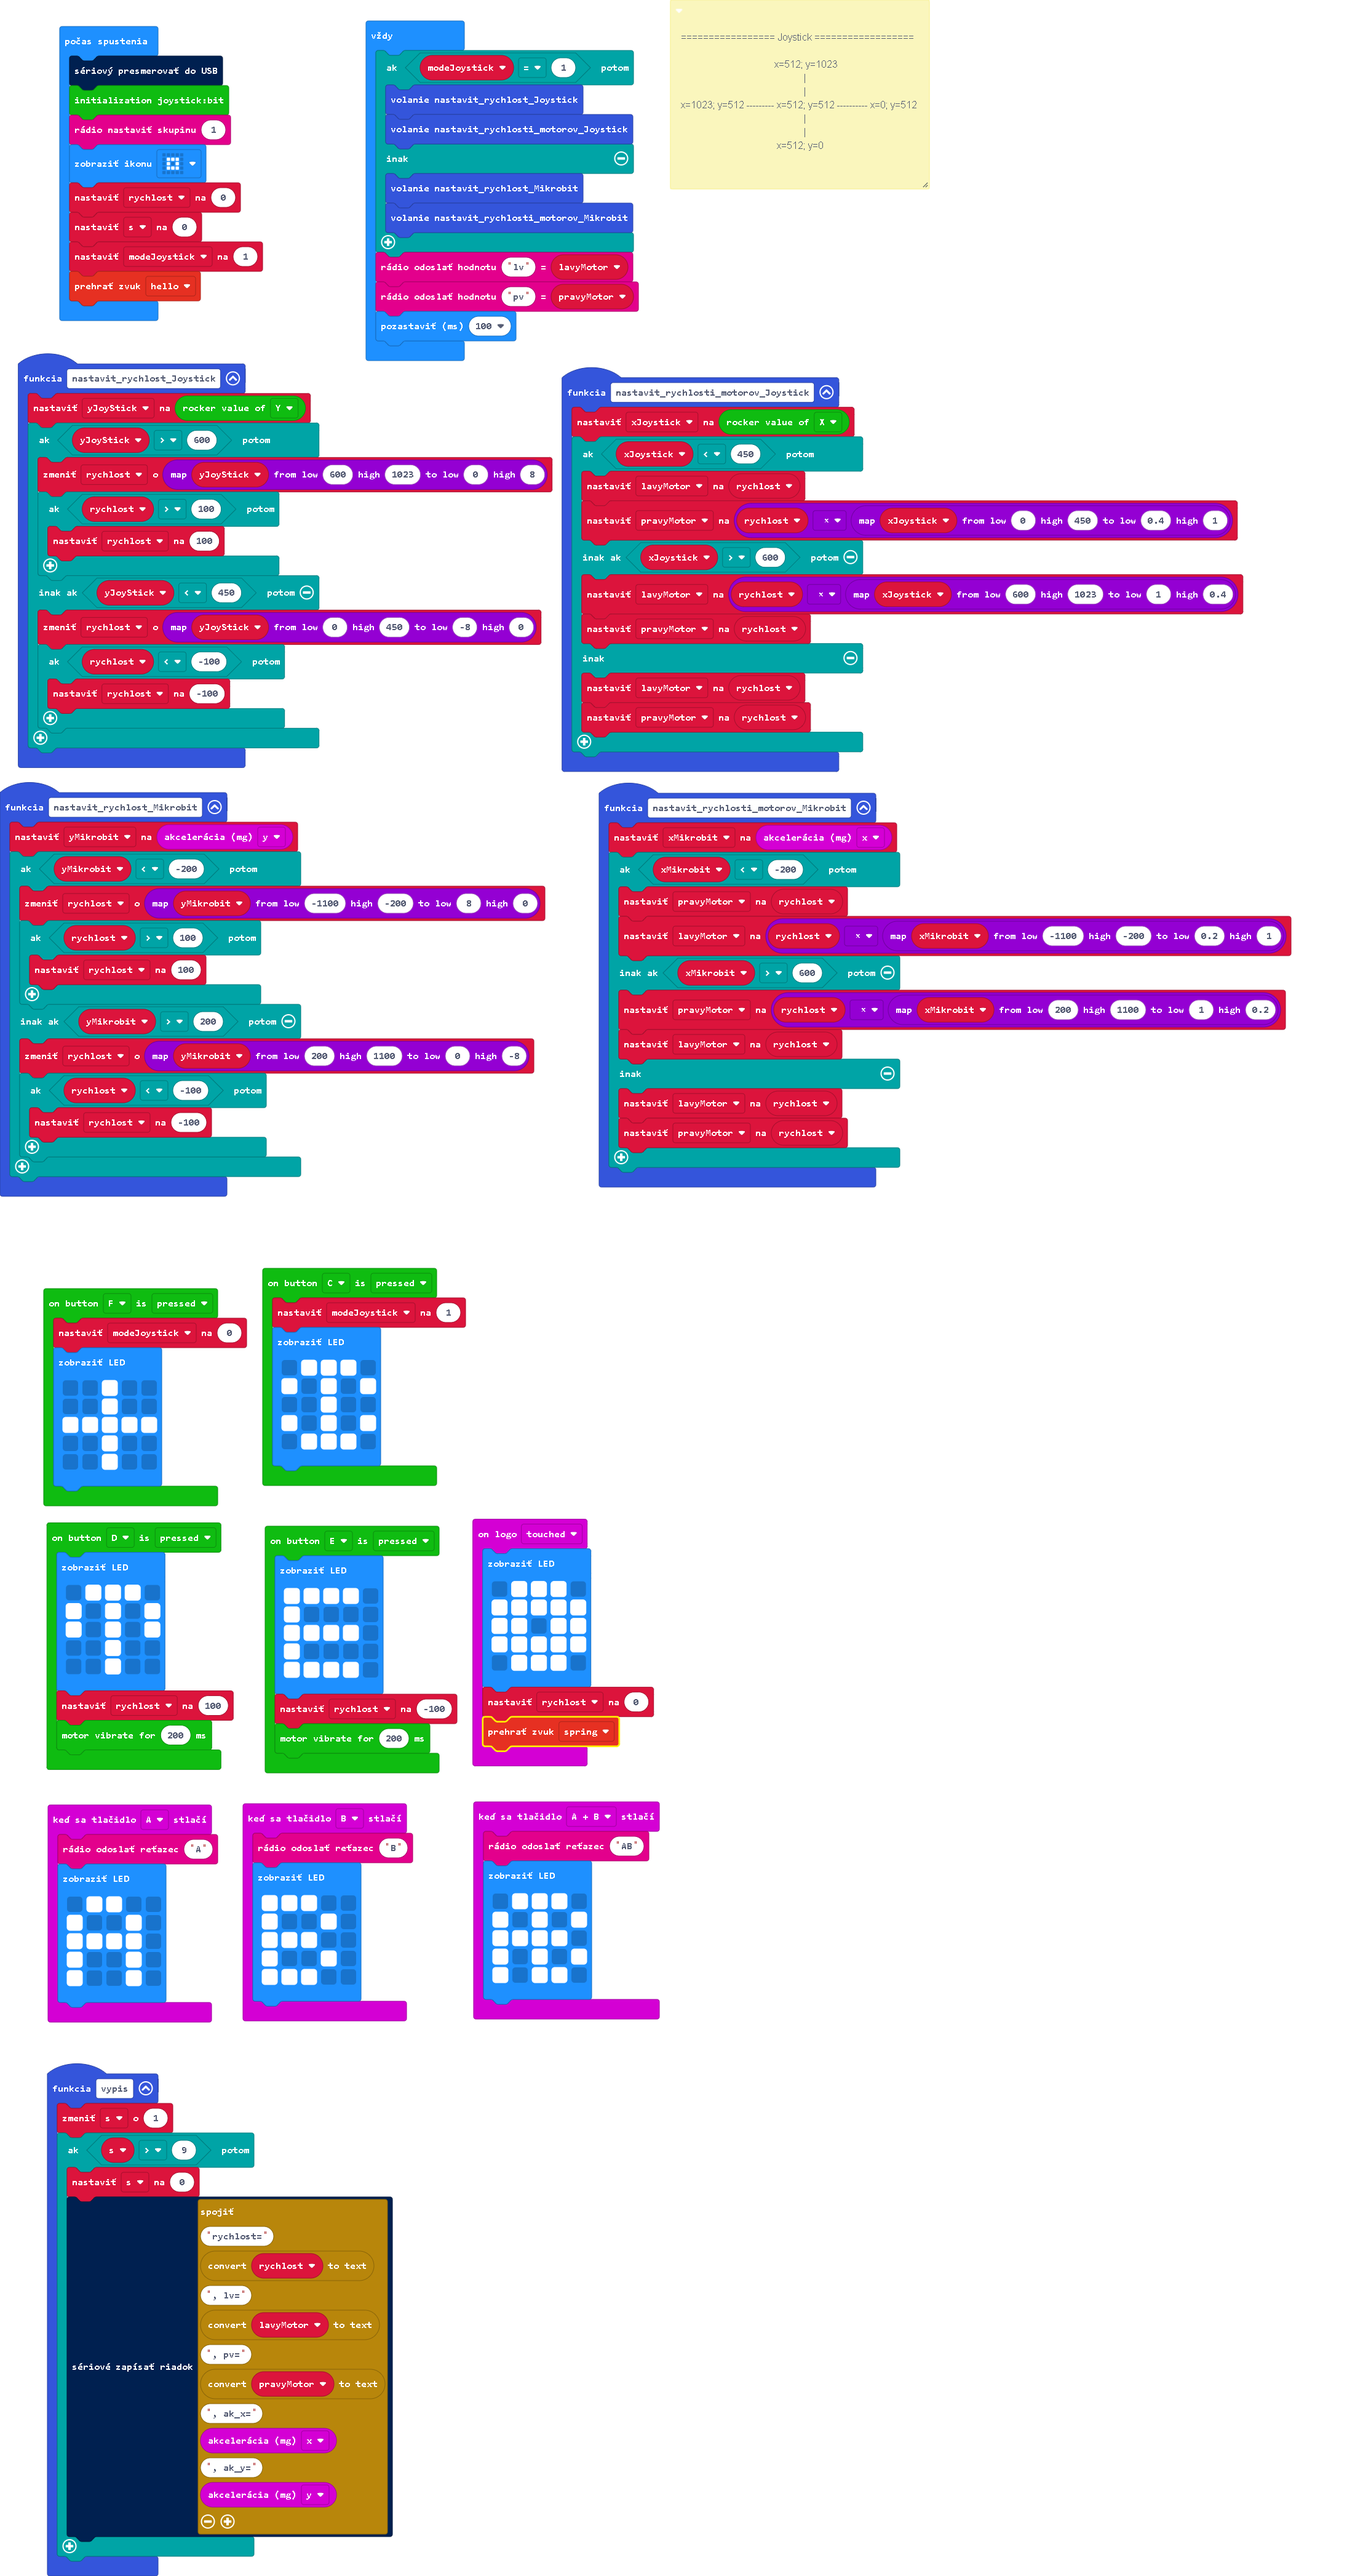
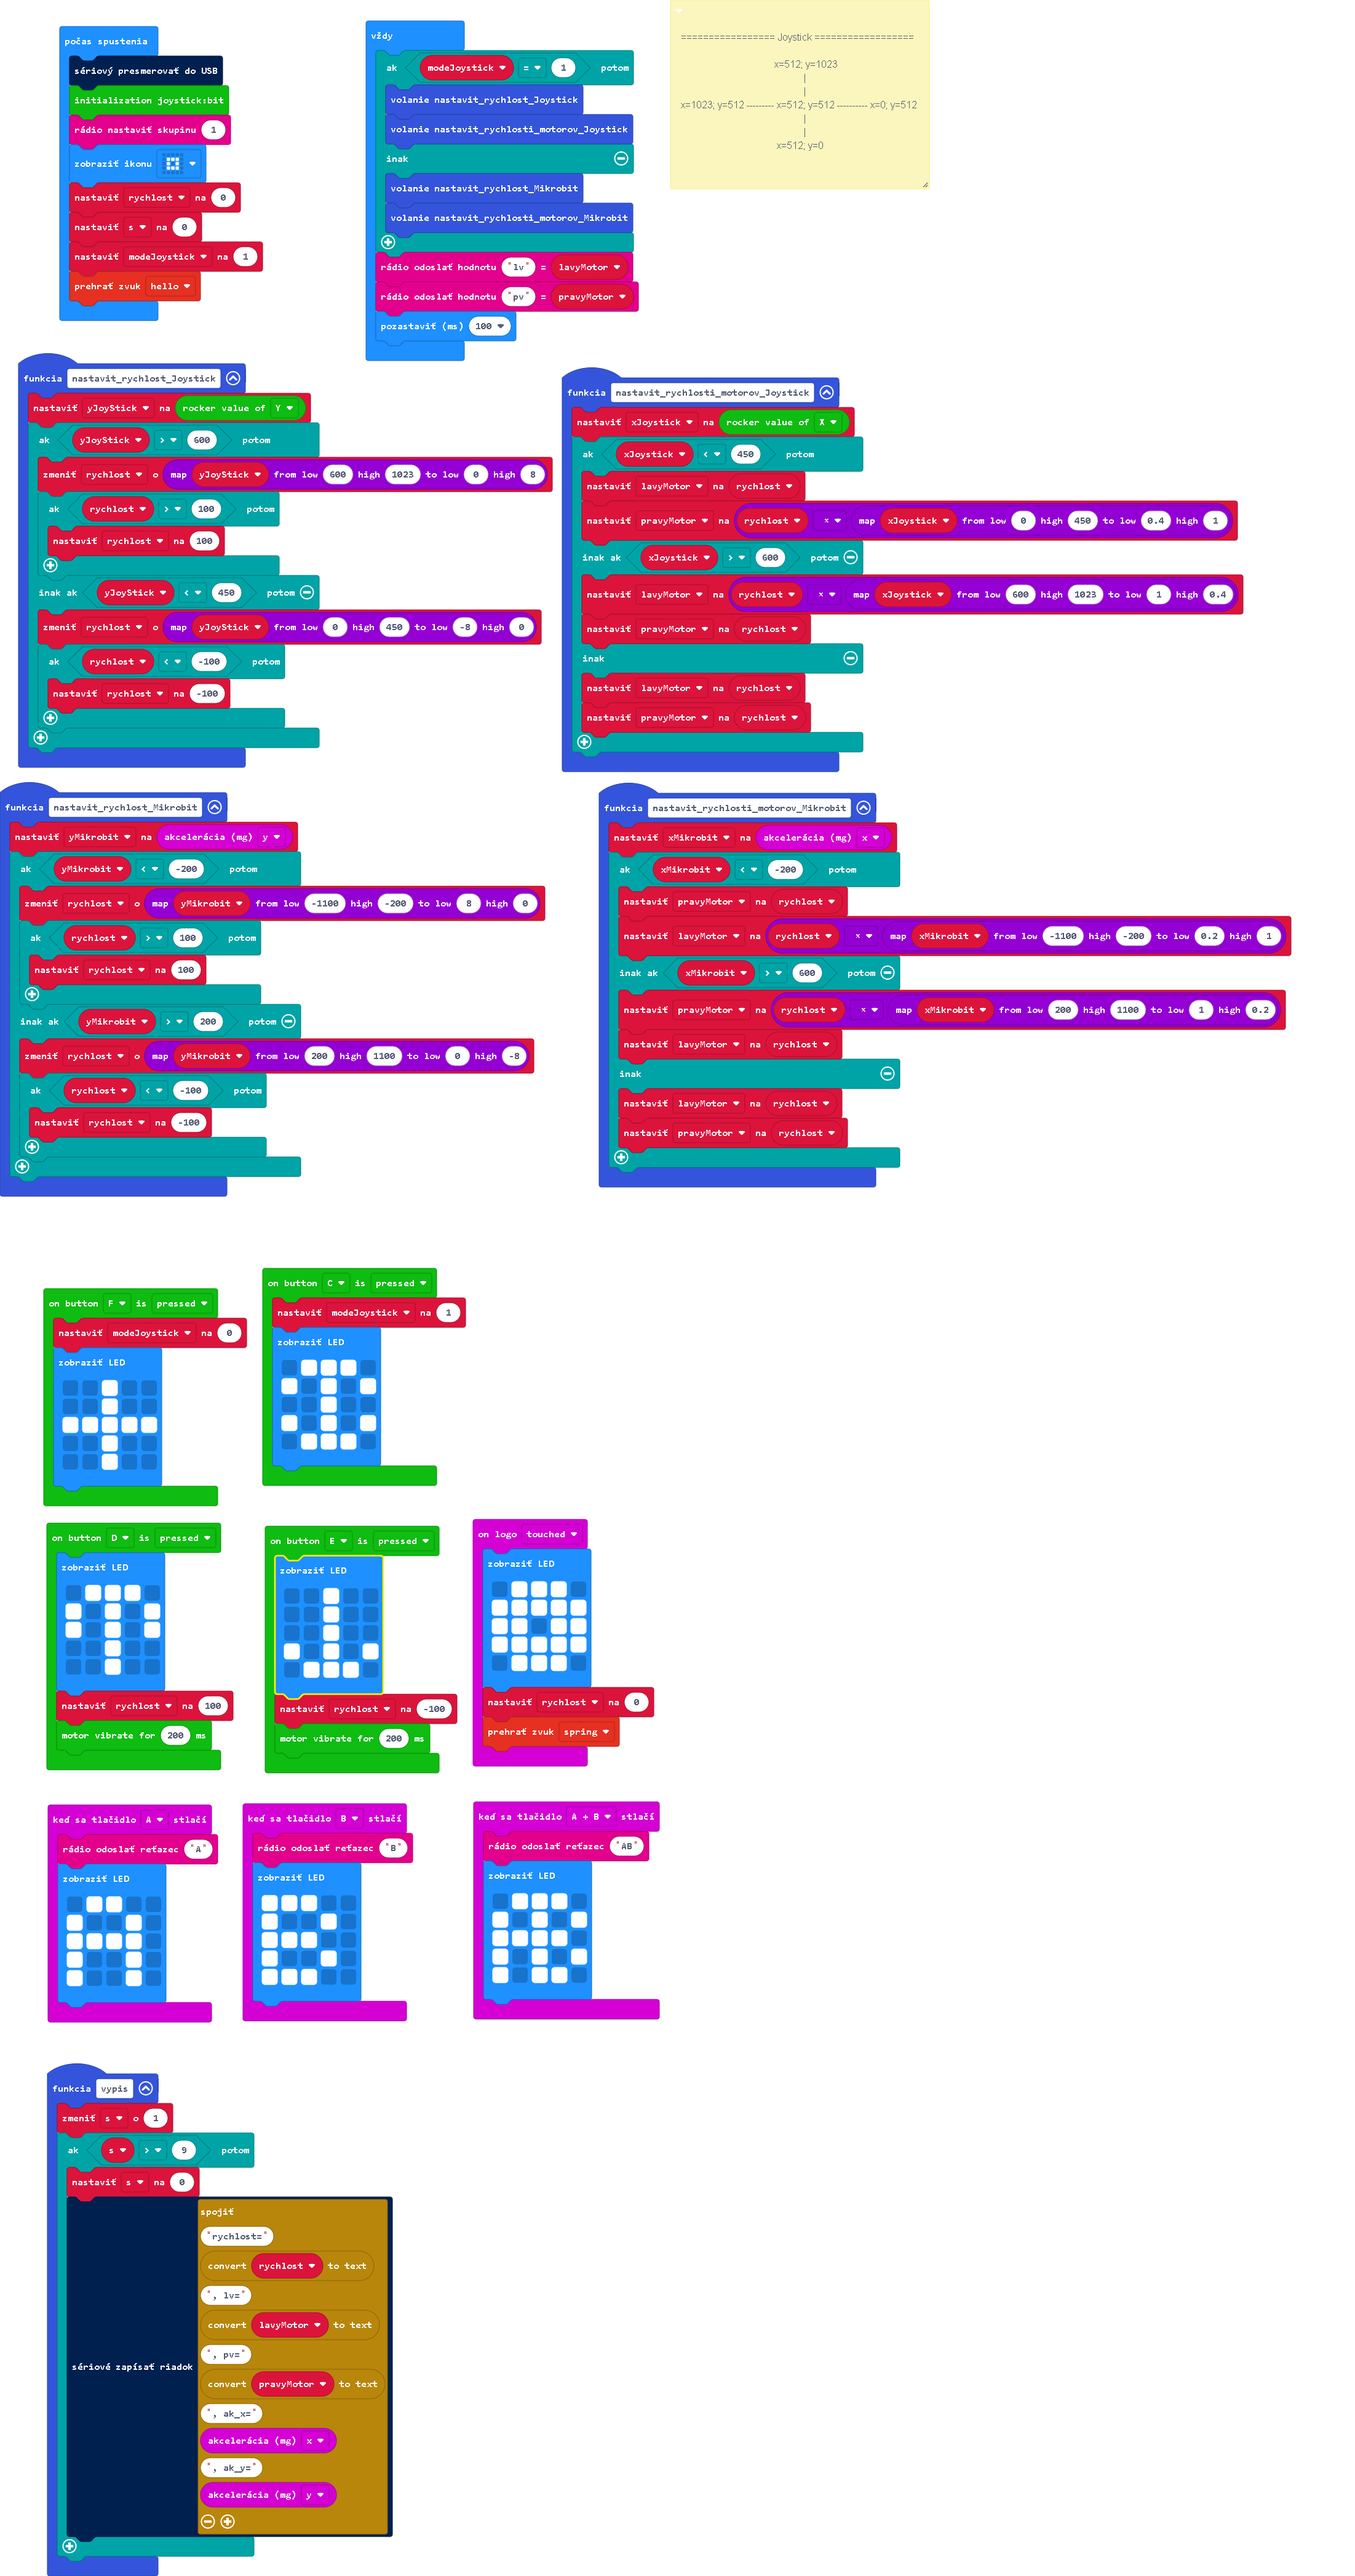
Aktualizovať main.blocks, main.ts

Changed region(s): [[0.1852, 0.5901, 0.2778, 0.6522]]

diff --git a/main.ts b/main.ts
@@ -1,10 +1,10 @@
 joystickbit.onButtonEvent(joystickbit.JoystickBitPin.P14, joystickbit.ButtonType.down, function () {
     basic.showLeds(`
-        # # # # .
-        # . . . .
-        # # # # .
-        # . . . .
-        # # # # .
+        . . # . .
+        . . # . .
+        . . # . .
+        # . # . #
+        . # # # .
         `)
     rychlost = -100
     joystickbit.Vibration_Motor(200)
